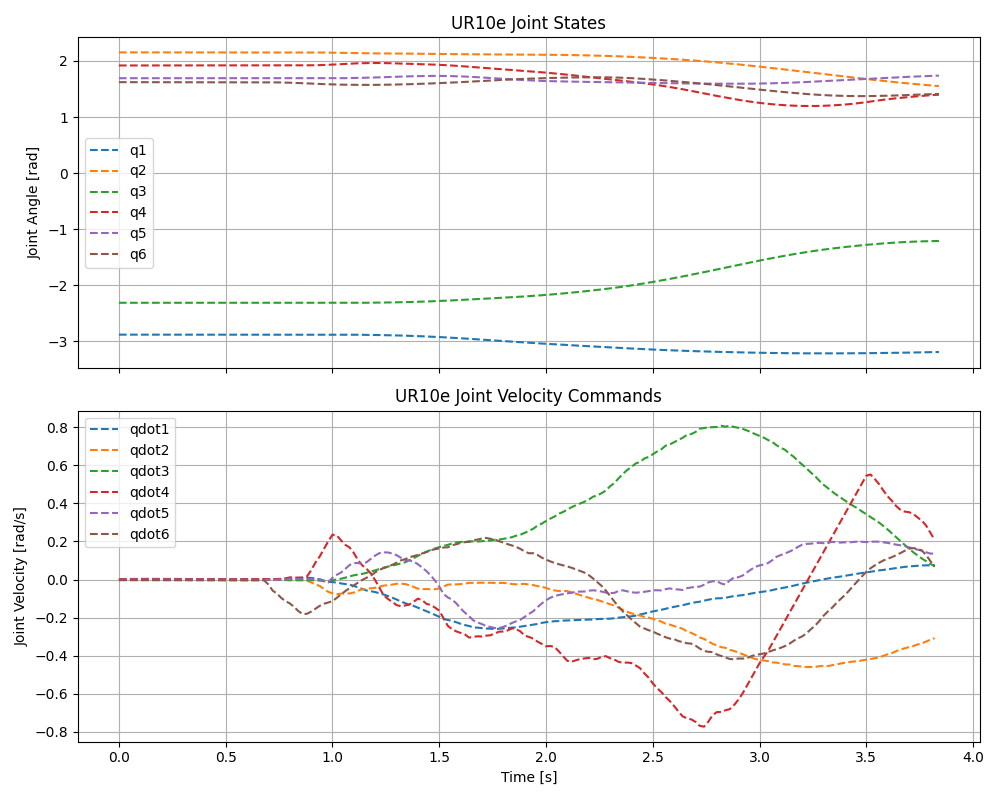
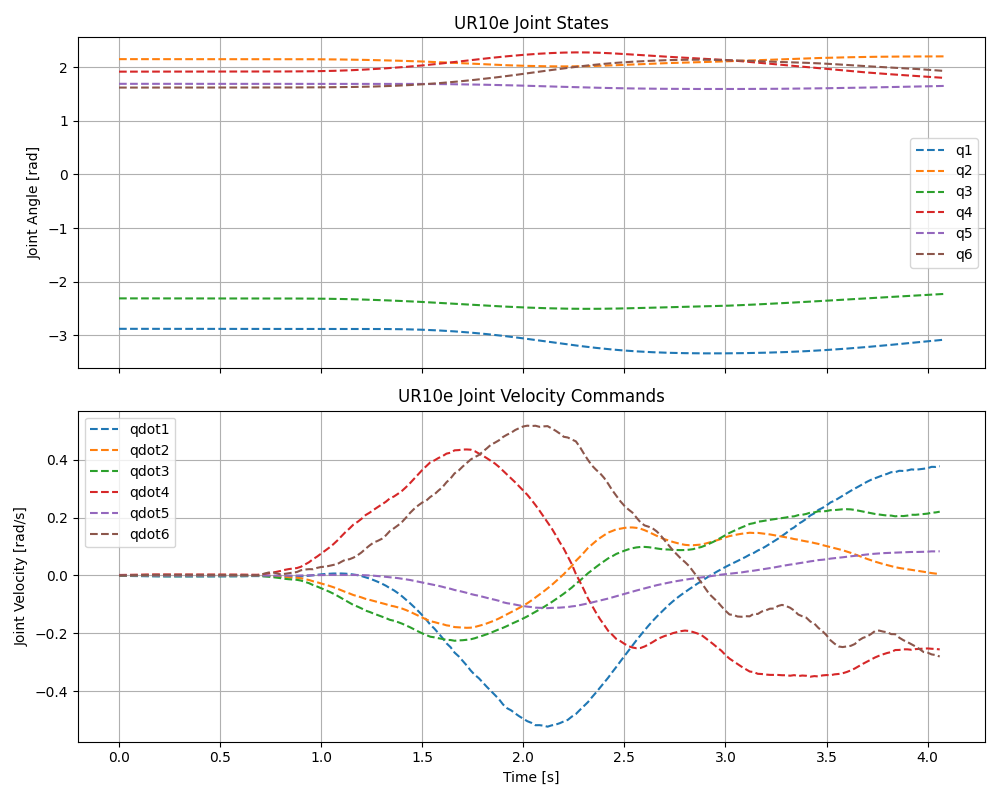
removed unnecessary prints

diff --git a/src/ur10e.py b/src/ur10e.py
@@ -205,7 +205,7 @@ class UR10e():
 
         # Current saved trajectories are poses
         if t == 0.0:
-            f_path = os.path.join(os.path.dirname(os.path.abspath(__file__)), "../trajectories/traj_24.txt")
+            f_path = os.path.join(os.path.dirname(os.path.abspath(__file__)), "../trajectories/traj_23.txt")
             print(f_path)
             self.pose_trajectory = np.loadtxt(f_path, ndmin=2)[:,1:]
             print((self.n, int(self.pose_trajectory.shape[0])))
@@ -219,7 +219,6 @@ class UR10e():
 
             joint_trajectory = np.array(joint_trajectory)
             self.trajectory = joint_trajectory.T
-            print(self.trajectory)
 
         id_s = int(round(t / self.dt))
         id_e = int(round(t / self.dt)) + npoints

diff --git a/src/mpc.py b/src/mpc.py
@@ -359,8 +359,6 @@ class MPC(object):
             x_traj = np.array(self.shared_state.trajectory_window)
         x_sp = x_traj.reshape(self.Nx * (self.Nt + 1), order="F")
         self.set_reference(x_sp)
-        print("x_sp")
-        print(x_sp)
 
 
         _, u_pred = self.solve_mpc(x0, u0=self.u_prev)
